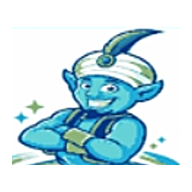
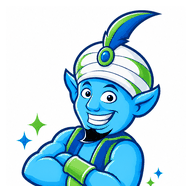
Add files via upload

diff --git a/index.html b/index.html
@@ -10,23 +10,26 @@
 <link rel="icon" href="icon-48.png">
 <link rel="apple-touch-icon" href="icon-180.png">
 <meta name="apple-mobile-web-app-capable" content="yes">
-<meta name="apple-mobile-web-app-title" content="GENIE">
+<meta name="apple-mobile-web-app-title" content="JIS GENIE">
 <style>
   html, body { margin: 0; padding: 0; height: 100%; background: #f5f7fb; overflow: hidden; }
   iframe { position: fixed; inset: 0; width: 100%; height: 100%; border: 0; display: block; }
   #splash { position: fixed; inset: 0; display: flex; flex-direction: column; align-items: center;
             justify-content: center; background: #fff; font: 600 18px system-ui, sans-serif; color: #2f4fa2;
             transition: opacity .4s; z-index: 2; }
-  #splash img { width: 140px; height: 140px; margin-bottom: 12px; }
+  #splash img { width: 200px; height: auto; margin-bottom: 12px; }
   #splash a { margin-top: 28px; font: 400 13px system-ui, sans-serif; color: #888; }
+  #out { position: fixed; top: 6px; right: 6px; z-index: 3; width: 30px; height: 30px; border-radius: 15px;
+         display: flex; align-items: center; justify-content: center; background: rgba(47,79,162,.55);
+         color: #fff; font: 600 16px system-ui, sans-serif; text-decoration: none; }
 </style>
 </head>
 <body>
 <div id="splash">
-  <img src="icon-512.png" alt="">
-  JIS GENIE
+  <img src="logo.png" alt="JIS GENIE">
   <a id="direct" href="#" target="_blank" rel="noopener" style="visibility:hidden">Not loading? Open GENIE directly to sign in</a>
 </div>
+<a id="out" href="#" target="_blank" rel="noopener" title="Open GENIE directly (if this page shows a Google error)">&#8599;</a>
 <iframe id="genie" title="JIS GENIE"
   allow="microphone; camera; clipboard-read; clipboard-write; autoplay; fullscreen"></iframe>
 <script>
@@ -34,7 +37,7 @@
   // so this address alone gives nobody access.
   var GENIE = 'https://script.google.com/macros/s/AKfycbzA5lUhh846LCKXXpWCqCSJeZJ7LJjTAdjQKQmdYvym-FOHP05kGcCXFhB69e0D6Guuyw/exec?job=genie';
   var f = document.getElementById('genie'), s = document.getElementById('splash'), d = document.getElementById('direct');
-  d.href = GENIE;
+  d.href = GENIE; document.getElementById('out').href = GENIE;
   f.addEventListener('load', function () { s.style.opacity = 0; setTimeout(function () { s.style.display = 'none'; }, 400); });
   setTimeout(function () { d.style.visibility = 'visible'; }, 8000); // only shows if GENIE has not loaded by then
   f.src = GENIE;
